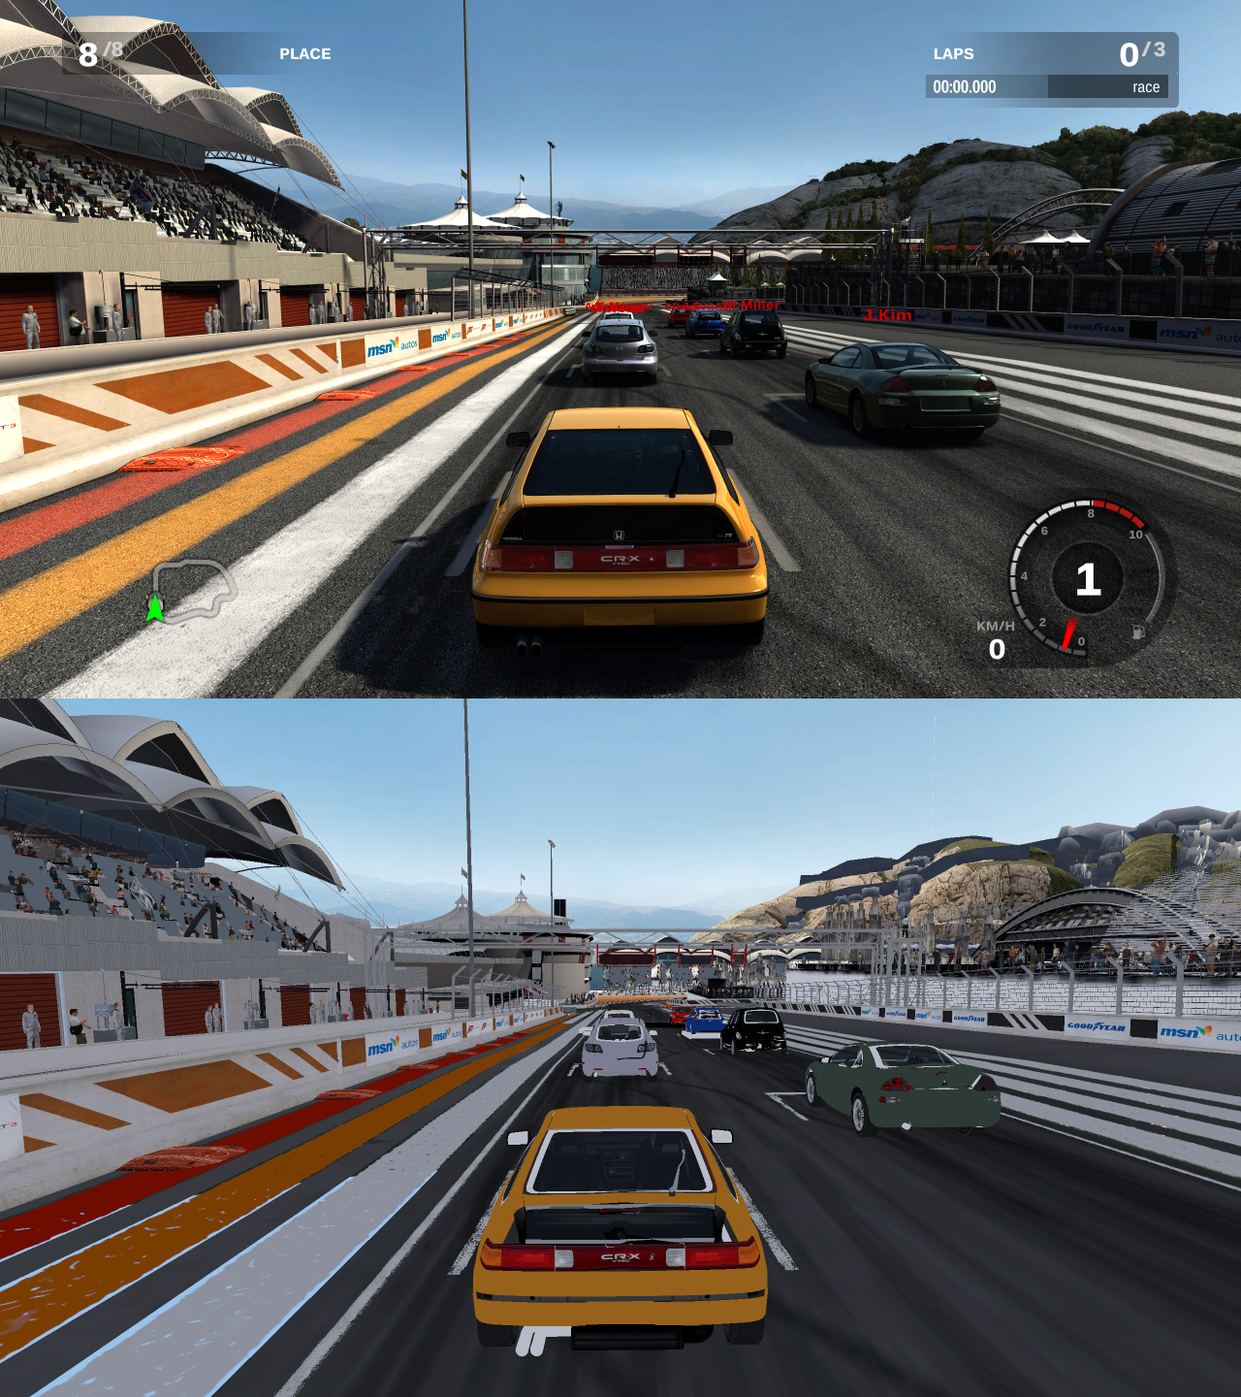
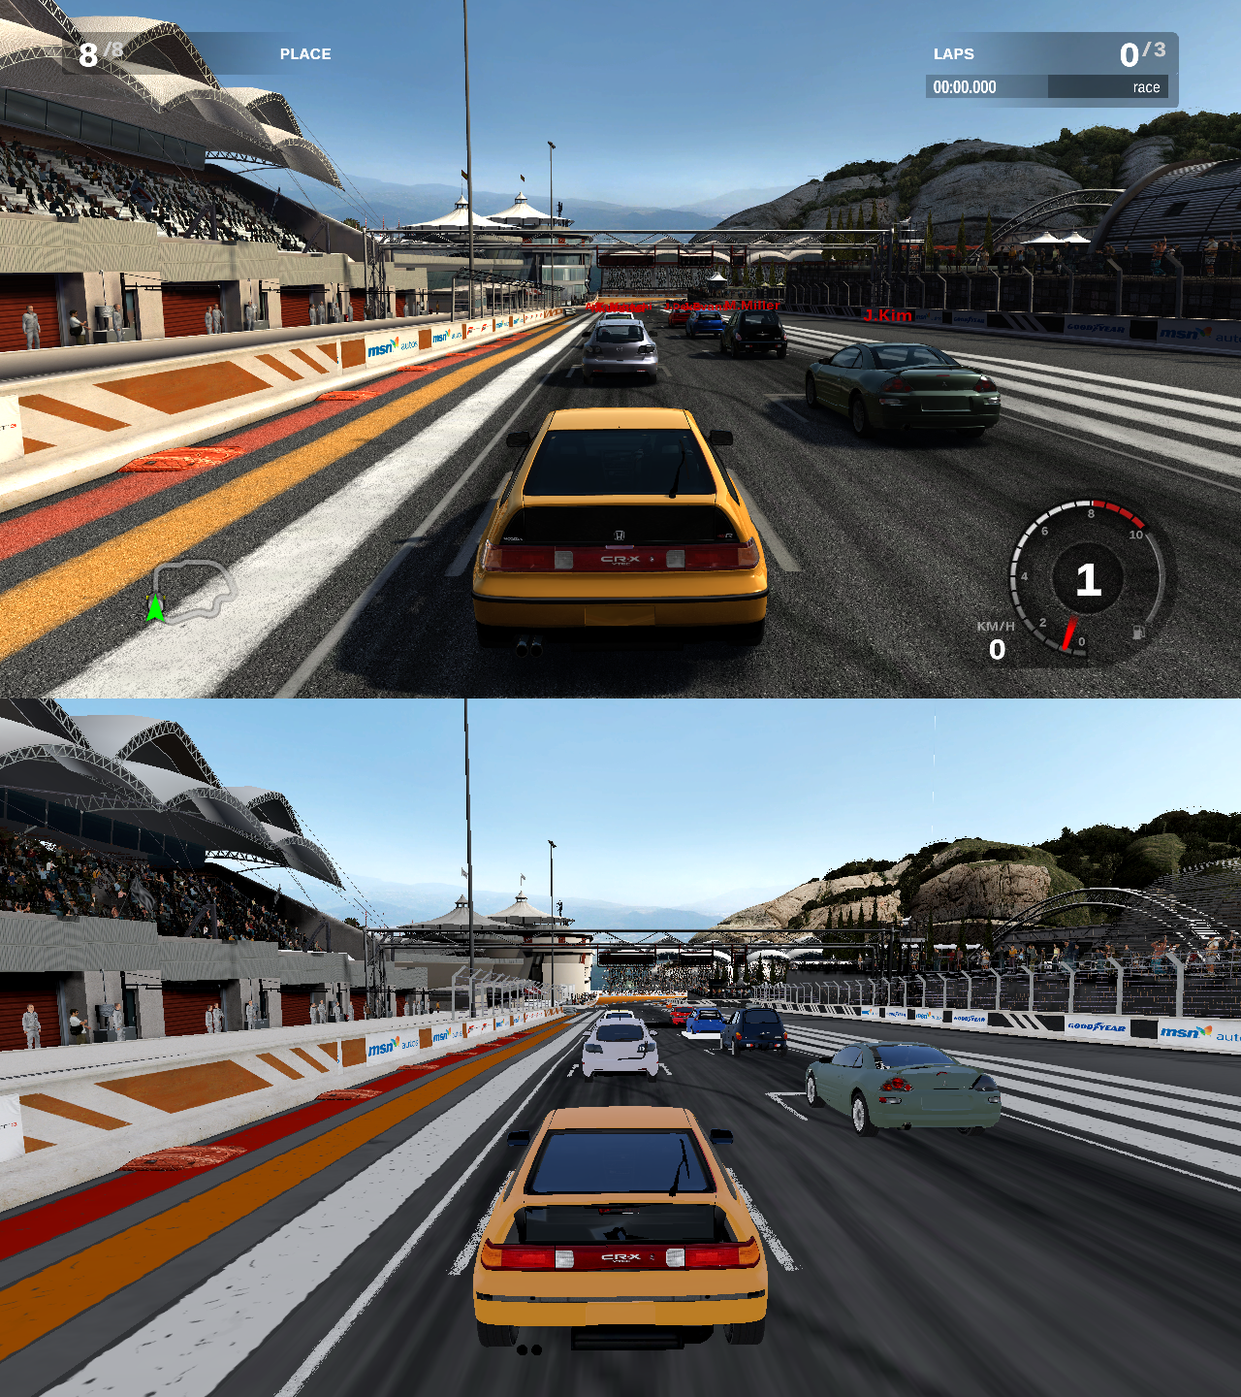
M1 stage 2: textures, foliage and materials, second pass
Cut-out from pixel-shader kills and the texture with an alpha pattern (trees, fences, trusses); correct
Xenos blend factors; unreproducible blended effects left out; track paint as an opaque surface; FM3's sun
direction (PS c250) as a glTF light and lightmaps (slot 7) as occlusion on TEXCOORD_1; untextured draws
coloured from their shader output; clean light textures; glossy paint; viewer sky reflections and tuned
lighting. Triple, merged: 263 fps at 3x1440p with 4x MSAA and shadows.

diff --git a/tools/fir_world.py b/tools/fir_world.py
@@ -196,7 +196,7 @@ def main():
     if '--gltf' in sys.argv:
         out = sys.argv[sys.argv.index('--gltf') + 1]
         mats = materials(cap, path, objs)
-        write_gltf(out, objs, cam, mats, merge='--merge' in sys.argv)
+        write_gltf(out, objs, cam, mats, merge='--merge' in sys.argv, sun=sun_direction(objs))
     return 0
 
 
@@ -236,19 +236,56 @@ def drop_reflections(objs):
 WORLD_POS = {}  # id(placed record) -> world positions, for draws exported in world space
 STAND_IN = 0.5  # the value a render-target texel reads as in the per-vertex pixel shader run
 RULES_PATH = os.path.join(os.path.dirname(os.path.abspath(__file__)), '..', 'profiles', 'fm3', 'materials.json')
-RULES = {k: v for k, v in json.load(open(RULES_PATH)).items() if not k.startswith('_')} if os.path.exists(RULES_PATH) else {}
+_RAW = json.load(open(RULES_PATH)) if os.path.exists(RULES_PATH) else {}
+RULES = {k: v for k, v in _RAW.items() if not k.startswith('_')}
+LIGHTMAP_SLOT = _RAW.get('_lightmap_slot')
+SUN_CONSTS = _RAW.get('_sun_const', [])
 
 
-def alpha_mode(regs):
-    """The draw's coverage from its render state: 'BLEND' (source-alpha blending), 'MASK' (alpha test or alpha to
-    coverage), else False. RB_COLORCONTROL 0x2202: bits 0-2 alpha function (7 always), bit 3 alpha test, bit 4 alpha to
-    coverage; RB_BLENDCONTROL0 0x2201: colour source factor in bits 0-4 (4 src alpha)."""
+def alpha_mode(regs, ps_code=None):
+    """The draw's coverage from its render state and pixel shader: 'BLEND' (source-alpha blending), 'MASK' (alpha
+    test, alpha to coverage, or a kill in the pixel shader), else False. RB_COLORCONTROL 0x2202: bits 0-2 alpha function
+    (7 always), bit 3 alpha test, bit 4 alpha to coverage. RB_BLENDCONTROL0 0x2201: colour source factor bits 0-4,
+    destination bits 8-12 (Xenos factors: 0 zero, 1 one, 6 source alpha, 7 one minus source alpha)."""
     cc, bc = regs.get(0x2202, 0), regs.get(0x2201, 0x10001)
-    if (bc & 0x1F) == 4:
+    src, dst = bc & 0x1F, (bc >> 8) & 0x1F
+    if src == 6 or dst == 7:
         return 'BLEND'
     if ((cc >> 3) & 1 and (cc & 7) != 7) or (cc >> 4) & 1:
         return 'MASK'
+    if ps_code is not None and shader_kills(ps_code):
+        return 'MASK'
     return False
+
+
+_KILLS = {}
+
+
+def shader_kills(code):
+    """Whether a pixel shader has a kill instruction (vector kill_* 24-27, scalar kills_* 35-39)."""
+    key = id(code)
+    if key not in _KILLS:
+        from fir_xenos import bits, decode_alu, parse
+        words, cfs = parse(code, full=True)
+        found = False
+        for lo, hi in cfs:
+            if (hi >> 12) & 15 not in (1, 2, 3, 4, 5, 6, 13, 14):
+                continue
+            addr, count, seq = lo & 0xFFF, (lo >> 12) & 7, (lo >> 16) & 0xFFF
+            for k in range(count):
+                if (seq >> (2 * k)) & 1:
+                    continue
+                a = decode_alu(words[(addr + k) * 3:(addr + k) * 3 + 3])
+                if 24 <= a['vop'] <= 27 or 35 <= a['sop'] <= 39:
+                    found = True
+        _KILLS[key] = found
+    return _KILLS[key]
+
+
+def alpha_share(tex):
+    """The share of texels with alpha below one half."""
+    a = np.frombuffer(tex['bytes'][:tex['w'] * tex['h'] * 4], np.uint8).reshape(-1, 4)[::31, 3]
+    return float((a < 128).mean())
 
 
 def looks_like_normal_map(tex):
@@ -312,8 +349,16 @@ def materials(cap, path, objs):
             continue
         res = mach.tfetches
         color = mach.color
-        if not res:
-            why['no texture fetch'] += 1
+        if not res and not RULES.get(f"{d['ps']:016x}"):
+            # No texture at all: the colour is the shader's arithmetic. Its output at the vertices (median, clamped) is
+            # the best estimate of the surface colour (it includes FM3's lighting, roughly neutral at noon).
+            if color is not None and np.isfinite(color[:, :3]).all():
+                c = np.clip(np.median(color[:, :3], axis=0), 0.0, 1.0)
+                out[id(p)] = {'uv': None, 'image': None, 'key': None, 'factor': c.tolist() + [1.0], 'blend': False,
+                              'color': color, 'lightmap': None}
+                why['no texture fetch: colour from the shader output'] += 1
+            else:
+                why['no texture fetch'] += 1
             continue
         fetch_at = {slot: coords for slot, dim, coords in res if dim == 1 and coords is not None}
 
@@ -324,6 +369,11 @@ def materials(cap, path, objs):
                 return t, tex
             return None, None
 
+        lightmap = None
+        if LIGHTMAP_SLOT is not None and LIGHTMAP_SLOT in fetch_at:
+            lt, ltex = decoded(LIGHTMAP_SLOT)
+            if ltex is not None:
+                lightmap = (fetch_at[LIGHTMAP_SLOT][:, :2].astype(np.float32), ltex, f'{lt[9]:016x}{lt[8]:016x}')
         rule = RULES.get(f"{d['ps']:016x}")
         if rule and rule.get('drop'):
             out[id(p)] = {'drop': True}
@@ -340,13 +390,19 @@ def materials(cap, path, objs):
                 why['rule: texture missing'] += 1
                 t = tex = None
             mat = {'uv': fetch_at[slot][:, :2].astype(np.float32) if tex else None, 'factor': [1.0, 1.0, 1.0, 1.0],
-                   'blend': 'alpha_texture' in rule, 'image': None, 'key': None, 'color': color, 'unlit': rule.get('unlit', False)}
+                   'blend': 'alpha_texture' in rule, 'image': None, 'key': None, 'color': color, 'unlit': rule.get('unlit', False),
+                   'roughness': rule.get('roughness', 1.0), 'metallic': rule.get('metallic', 0.0)}
             if tex is None:
                 mat['factor'] = colour.tolist() + [float(rule.get('alpha', 1.0))]
                 mat['blend'] = mat['blend'] or 'alpha' in rule
             else:
                 img = np.frombuffer(tex['bytes'][:tex['w'] * tex['h'] * 4], np.uint8).reshape(tex['h'], tex['w'], 4).astype(np.float64) / 255
-                if 'alpha_texture' in rule:
+                if 'alpha_texture' in rule and 'under' in rule:
+                    a_ = img[:, :, rule.get('alpha_channel', 3)][:, :, None]
+                    base_c = np.array(rule['under'], dtype=np.float64)
+                    img = np.concatenate([base_c * (1 - a_) + colour * a_, np.ones_like(a_)], axis=2)
+                    mat['blend'] = False
+                elif 'alpha_texture' in rule:
                     a_ = img[:, :, rule.get('alpha_channel', 3)]
                     img = np.concatenate([np.broadcast_to(colour, img.shape[:2] + (3,)), a_[:, :, None]], axis=2)
                 elif rule.get('texture_mode') == 'over_alpha':
@@ -356,25 +412,46 @@ def materials(cap, path, objs):
                     img = np.concatenate([img[:, :, :3] * colour, np.ones(img.shape[:2] + (1,))], axis=2)
                 mat['image'] = {'w': tex['w'], 'h': tex['h'], 'bytes': (np.clip(img, 0, 1) * 255 + 0.5).astype(np.uint8).tobytes()}
                 mat['key'] = f"{t[9]:016x}{t[8]:016x}_{rule['name'].replace(' ', '_')}_{''.join(f'{int(v * 255):02x}' for v in colour)}"
+            mat['lightmap'] = lightmap
             out[id(p)] = mat
             why['rule: ' + rule['name']] += 1
             continue
         # The base texture: the first 2D fetch whose texture came from memory (decoded by the tap) and does not look like
-        # a normal map. Render targets the game made earlier in the frame (shadow maps, reflections) are not decoded.
-        pick = None
+        # a normal map. Render targets the game made earlier in the frame (shadow maps, reflections) are not decoded. For
+        # a cut-out or blended draw, a texture whose alpha actually has a pattern wins (fences, foliage, trusses).
+        mode = alpha_mode(regs, code)
+        cands = []
         for slot, dim, coords in res:
             if dim != 1 or coords is None:
                 continue
             t, tex = decoded(slot)
             if tex is not None and not looks_like_normal_map(tex):
-                pick = (slot, coords, t, tex)
-                break
+                cands.append((slot, coords, t, tex))
+        pick = cands[0] if cands else None
+        if mode and cands:
+            with_alpha = [c for c in cands if 0.05 < alpha_share(c[3]) < 0.995]
+            if with_alpha:
+                pick = with_alpha[0]
+        if pick is None and not res:
+            # No texture at all: the colour is the shader's arithmetic. Its output at the vertices (median, clamped) is
+            # the best estimate of the surface colour (it includes FM3's lighting, roughly neutral at noon).
+            if color is not None and np.isfinite(color[:, :3]).all():
+                c = np.clip(np.median(color[:, :3], axis=0), 0.0, 1.0)
+                out[id(p)] = {'uv': None, 'image': None, 'key': None, 'factor': c.tolist() + [1.0], 'blend': False,
+                              'color': color, 'lightmap': None}
+                why['no texture fetch: colour from the shader output'] += 1
+                continue
         if pick is None:
+            if mode and res:
+                out[id(p)] = {'drop': True}  # a blended or cut-out effect whose textures are not available
+                why['blended/cut-out with no usable texture (left out)'] += 1
+                continue
             why['no decoded 2D texture'] += 1
             continue
         slot, coords, t, tex = pick
         out[id(p)] = {'uv': coords[:, :2].astype(np.float32), 'image': tex, 'key': f'{t[9]:016x}{t[8]:016x}',
-                      'factor': [1.0, 1.0, 1.0, 1.0], 'blend': alpha_mode(regs), 'color': color}
+                      'factor': [1.0, 1.0, 1.0, 1.0], 'blend': mode, 'color': color,
+                      'lightmap': lightmap if lightmap is not None and slot != LIGHTMAP_SLOT else None}
         why['textured'] += 1
     for k, v in why.most_common():
         print(f'  materials: {k}: {v}')
@@ -394,7 +471,26 @@ def smooth_normals(P, tris):
     return (n / ln[:, None]).astype(np.float32)
 
 
-def write_gltf(out, objs, cam, mats=None, merge=False):
+def sun_direction(objs):
+    """The direction to the sun in the capture's world: the most common unit vector among the profile's sun constants."""
+    from fir_frame import f32
+    votes, vec = Counter(), {}
+    for p, atoms, W in objs:
+        regs = p[1]
+        for c in SUN_CONSTS:
+            v = np.array([f32(regs.get(0x4400 + c * 4 + k, 0)) for k in range(3)])
+            if 0.98 < np.linalg.norm(v) < 1.02:
+                k = tuple(np.round(v, 3))
+                votes[k] += 1
+                vec[k] = v
+    if not votes:
+        return None
+    k, n = votes.most_common(1)[0]
+    print(f'  sun: direction {list(k)} ({n} votes; elevation {np.degrees(np.arcsin(k[1])):.1f} deg)')
+    return vec[k] / np.linalg.norm(vec[k])
+
+
+def write_gltf(out, objs, cam, mats=None, merge=False, sun=None):
     # FM3's scene target reaches the screen rotated 180 deg: clip x is screen-left and clip y screen-down.
     right, up, fwd = -cam['right'], -cam['up'], cam['forward']
     S = np.eye(4)
@@ -407,23 +503,28 @@ def write_gltf(out, objs, cam, mats=None, merge=False):
     offset = 0
     checks = []
     groups = {}  # merge mode: material index -> [(world positions, normals, uvs, triangles)]
-    images, textures, materials_, mat_ids = [], [], [], {}
+    images, textures, materials_, mat_ids, img_ids = [], [], [], {}, {}
     tex_dir = os.path.splitext(out)[0] + '_tex'
 
-    def material_index(mat):
-        key = (mat['key'] or 'none') + str(mat['factor']) + str(mat['blend']) + str(mat.get('unlit'))
+    def image_index(tex, key):
+        if key not in img_ids:
+            os.makedirs(tex_dir, exist_ok=True)
+            name = f'{key[:24]}_{len(images)}.png'
+            fr.write_png(os.path.join(tex_dir, name), tex['w'], tex['h'], tex['bytes'][:tex['w'] * tex['h'] * 4])
+            images.append({'uri': os.path.basename(tex_dir) + '/' + name})
+            textures.append({'source': len(images) - 1, 'sampler': 0})
+            img_ids[key] = len(textures) - 1
+        return img_ids[key]
+
+    def material_index(mat, lm=None):
+        key = (mat['key'] or 'none') + str(mat['factor']) + str(mat['blend']) + str(mat.get('unlit')) + (lm[2] if lm else '') + str(mat.get('roughness'))
         if key not in mat_ids:
-            pbr = {'baseColorFactor': mat['factor'], 'metallicFactor': 0.0, 'roughnessFactor': 1.0}
+            pbr = {'baseColorFactor': mat['factor'], 'metallicFactor': mat.get('metallic', 0.0), 'roughnessFactor': mat.get('roughness', 1.0)}
             if mat['image'] is not None:
-                tex = mat['image']
-                os.makedirs(tex_dir, exist_ok=True)
-                name = f'{mat["key"][:24]}_{len(images)}.png'
-                fr.write_png(os.path.join(tex_dir, name), tex['w'], tex['h'], tex['bytes'][:tex['w'] * tex['h'] * 4])
-                images.append({'uri': os.path.basename(tex_dir) + '/' + name})
-                textures.append({'source': len(images) - 1, 'sampler': 0})
-                pbr['baseColorTexture'] = {'index': len(textures) - 1}
+                pbr['baseColorTexture'] = {'index': image_index(mat['image'], mat['key'])}
+            occ = {'occlusionTexture': {'index': image_index(lm[1], 'lm' + lm[2]), 'texCoord': 1}} if lm else {}
             mode = mat['blend'] if isinstance(mat['blend'], str) else ('BLEND' if mat['blend'] else None)
-            materials_.append({'pbrMetallicRoughness': pbr, 'doubleSided': True,
+            materials_.append({'pbrMetallicRoughness': pbr, 'doubleSided': True, **occ,
                                **({'alphaMode': mode} if mode else {}), **({'alphaCutoff': 0.5} if mode == 'MASK' else {}),
                                **({'extensions': {'KHR_materials_unlit': {}}} if mat.get('unlit') else {})})
             mat_ids[key] = len(materials_) - 1
@@ -464,16 +565,20 @@ def write_gltf(out, objs, cam, mats=None, merge=False):
             continue
         if merge:
             uvm = mat['uv'] if mat is not None and mat['uv'] is not None and mat['image'] is not None and np.all(np.isfinite(mat['uv'])) else None
-            mi_ = material_index(mat) if mat is not None and (uvm is not None or mat['image'] is None) else -1
+            lmm = mat.get('lightmap') if mat is not None else None
+            if lmm is not None and not np.all(np.isfinite(lmm[0])):
+                lmm = None
+            mi_ = material_index(mat, lmm) if mat is not None and (uvm is not None or mat['image'] is None) else -1
             Pw = (Wg[:3, :3] @ P.astype(np.float64).T).T + Wg[:3, 3]
             Nw = smooth_normals(P, tris).astype(np.float64) @ np.linalg.inv(Wg[:3, :3])
             Nw /= np.maximum(np.linalg.norm(Nw, axis=1, keepdims=True), 1e-12)
             groups.setdefault(mi_, []).append((Pw.astype(np.float32), Nw.astype(np.float32),
-                                               uvm if uvm is not None else np.zeros((len(P), 2), np.float32), tris))
+                                               uvm if uvm is not None else np.zeros((len(P), 2), np.float32), tris,
+                                               lmm[0] if lmm is not None else np.zeros((len(P), 2), np.float32)))
             checks.append((per_vert, np.eye(4), Pw.astype(np.float32)))
             continue
         uv = mat['uv'] if mat is not None and mat['uv'] is not None and np.all(np.isfinite(mat['uv'])) else None
-        mkey = (mat['key'] or '') + str(mat['factor']) if mat is not None else ''
+        mkey = (mat['key'] or '') + str(mat['factor']) + (mat['lightmap'][2] if mat.get('lightmap') else '') if mat is not None else ''
         h = hashlib.blake2b(P.tobytes() + tris.tobytes() + (uv.tobytes() if uv is not None else b'') + mkey.encode(),
                             digest_size=12).hexdigest()
         if h not in mesh_ids:
@@ -488,7 +593,13 @@ def write_gltf(out, objs, cam, mats=None, merge=False):
                 if uv is not None and mat['image'] is not None:
                     accessors.append({'bufferView': add_view(uv.tobytes(), 34962), 'componentType': 5126, 'count': len(uv), 'type': 'VEC2'})
                     prim['attributes']['TEXCOORD_0'] = len(accessors) - 1
-                prim['material'] = material_index(mat)
+                lm = mat.get('lightmap')
+                if lm is not None and np.all(np.isfinite(lm[0])):
+                    accessors.append({'bufferView': add_view(lm[0].tobytes(), 34962), 'componentType': 5126, 'count': len(lm[0]), 'type': 'VEC2'})
+                    prim['attributes']['TEXCOORD_1'] = len(accessors) - 1
+                else:
+                    lm = None
+                prim['material'] = material_index(mat, lm)
             iv = add_view(tris.ravel().tobytes(), 34963)
             accessors.append({'bufferView': iv, 'componentType': 5125, 'count': int(tris.size), 'type': 'SCALAR'})
             prim['indices'] = len(accessors) - 1
@@ -515,6 +626,10 @@ def write_gltf(out, objs, cam, mats=None, merge=False):
             if 'baseColorTexture' in materials_[mi_]['pbrMetallicRoughness']:
                 accessors.append({'bufferView': add_view(Um.tobytes(), 34962), 'componentType': 5126, 'count': len(Um), 'type': 'VEC2'})
                 prim['attributes']['TEXCOORD_0'] = len(accessors) - 1
+            if 'occlusionTexture' in materials_[mi_]:
+                L2 = np.ascontiguousarray(np.concatenate([q[4] for q in parts]))
+                accessors.append({'bufferView': add_view(L2.tobytes(), 34962), 'componentType': 5126, 'count': len(L2), 'type': 'VEC2'})
+                prim['attributes']['TEXCOORD_1'] = len(accessors) - 1
             prim['material'] = mi_
         accessors.append({'bufferView': add_view(Tm.ravel().tobytes(), 34963), 'componentType': 5125, 'count': int(Tm.size), 'type': 'SCALAR'})
         prim['indices'] = len(accessors) - 1
@@ -523,6 +638,15 @@ def write_gltf(out, objs, cam, mats=None, merge=False):
     C = np.eye(4)
     C[:3, 0], C[:3, 1], C[:3, 2], C[:3, 3] = right, up, -fwd, pos
     nodes.append({'camera': 0, 'matrix': C.T.ravel().tolist(), 'name': 'capture_camera'})
+    if sun is not None:
+        # A glTF directional light shines along its node's -Z: +Z points at the sun.
+        z = s3 @ sun
+        x = np.cross([0.0, 1.0, 0.0], z)
+        x /= np.linalg.norm(x)
+        y = np.cross(z, x)
+        L = np.eye(4)
+        L[:3, 0], L[:3, 1], L[:3, 2] = x, y, z
+        nodes.append({'extensions': {'KHR_lights_punctual': {'light': 0}}, 'matrix': L.T.ravel().tolist(), 'name': 'sun'})
     # Self-check: each node's first vertex through the glTF camera against the capture's clip position (scene rotated 180 deg).
     V = np.linalg.inv(C)
     fy = 1 / math.tan(math.radians(cam['yfov_deg']) / 2)
@@ -546,14 +670,17 @@ def write_gltf(out, objs, cam, mats=None, merge=False):
                                                                 'znear': max(cam['near'], 0.01)}}],
             'accessors': accessors, 'bufferViews': views,
             **({'materials': materials_} if materials_ else {}),
-            **({'extensionsUsed': ['KHR_materials_unlit']} if any('extensions' in m for m in materials_) else {}),
+            'extensionsUsed': (['KHR_materials_unlit'] if any('extensions' in m for m in materials_) else []) +
+                              (['KHR_lights_punctual'] if sun is not None else []),
+            **({'extensions': {'KHR_lights_punctual': {'lights': [{'type': 'directional', 'color': [1.0, 0.95, 0.86], 'intensity': 3.0, 'name': 'sun'}]}}}
+               if sun is not None else {}),
             **({'images': images, 'textures': textures, 'samplers': [{'wrapS': 10497, 'wrapT': 10497}]} if images else {}),
             'buffers': [{'byteLength': len(blob), 'uri': os.path.basename(os.path.splitext(out)[0]) + '.bin'}]}
     with open(os.path.splitext(out)[0] + '.bin', 'wb') as f:
         f.write(blob)
     with open(out, 'w') as f:
         json.dump(gltf, f)
-    print(f'glTF written: {out} ({len(meshes)} meshes, {len(nodes) - 1} placed draws, {len(materials_)} textured materials, {len(blob) / 1e6:.1f} MB)')
+    print(f'glTF written: {out} ({len(meshes)} meshes, {len(nodes) - 1} placed draws, {len(materials_)} materials, {len(blob) / 1e6:.1f} MB)')
 
 
 if __name__ == '__main__':

diff --git a/M1.md b/M1.md
@@ -158,6 +158,26 @@ under a screen pixel (shaders, textures), which is how the rules were found. `wo
 shadows, sky ambient, filmic tonemap
 ([`m1/stage2-transforms/godot-lit-vs-game.png`](m1/stage2-transforms/godot-lit-vs-game.png)).
 
+**Textures, foliage and materials, second pass (2026-11-22).**
+- **Foliage, fences, trusses:** cut-out is now also detected from a kill in the pixel shader (FM3's trees and the
+  roof truss have no alpha test in the render state), and a cut-out draw takes the texture whose alpha has a pattern
+  (the fence's chain link is its second texture). Blend detection uses the right Xenos factors (6 source alpha, 7
+  one minus). Cut-out or blended draws whose textures are all render targets are left out (143).
+- **Track:** the line-paint shader is the surface itself: paint colour (c2) over asphalt grey through its mask,
+  opaque (no more sky showing through).
+- **Lighting from the game:** FM3's sun direction is a PS constant (c250/c136: (-0.714, 0.680, 0.165), 42.8 deg up)
+  and goes into the glTF as a directional light (`KHR_lights_punctual`), so Godot's shadows fall as the game's; each
+  world draw's baked lightmap (slot 7, its own UVs) becomes the glTF occlusion texture on TEXCOORD_1.
+- **Untextured draws** take the median of their pixel shader's output as colour (exhaust tips, trims); car light
+  shaders use the clean texture (s14), not FM3's damage texture (s4); glass is nearly opaque dark; car paint has a
+  roughness (0.4) so it reflects.
+- **Viewer:** a procedural sky for reflections (the visible sky stays FM3's dome), neutral ambient, low specular on
+  matte surfaces, filmic tonemap with a little contrast.
+- Triple screen with these materials, merged: 263 fps at 3x 2560x1440 with 4x MSAA and shadows (404 materials).
+- Still different: the stands' concrete is greyer than the game's warm beige, the hills' rock is warmer than the
+  game's grey, asphalt has less grain, and in the merged triple export the CR-X's rear glass shows the interior more
+  than in the per-draw export (transparent ordering after merging, to check).
+
 **Triple screen in Godot, from a triple capture.** `fir_world.py` on the triple-grid capture recovers FM3's widened
 camera (155.37 deg vertical, exactly the auto layout's game FOV) and 2,028 draws; `world_view.gd --triple
 bench/g1/layout_auto.json` renders the three screens with the core's triple-view layout (`triple_cameras.gd`). Against
@@ -173,6 +193,7 @@ ReGPU's own triple screenshot of the same grid the geometry matches on all three
 | merged per material (`--merge`, 242 meshes) | sun | off | 396 | 2,375 |
 | merged per material | off | off | 527 | 667 |
 | merged per material | sun | 4x | 288-290 | 2,375 |
+| merged, second-pass materials (404) | sun | 4x | 263 | 3,396 |
 
 FM3 through ReGPU on the same triple grid: 146 fps (M0). So Godot draws this frame on three screens about twice as
 fast with 4x MSAA and shadows. Not comparable yet in everything: a static frame (no game, so FM3's 360 fps engine cap
